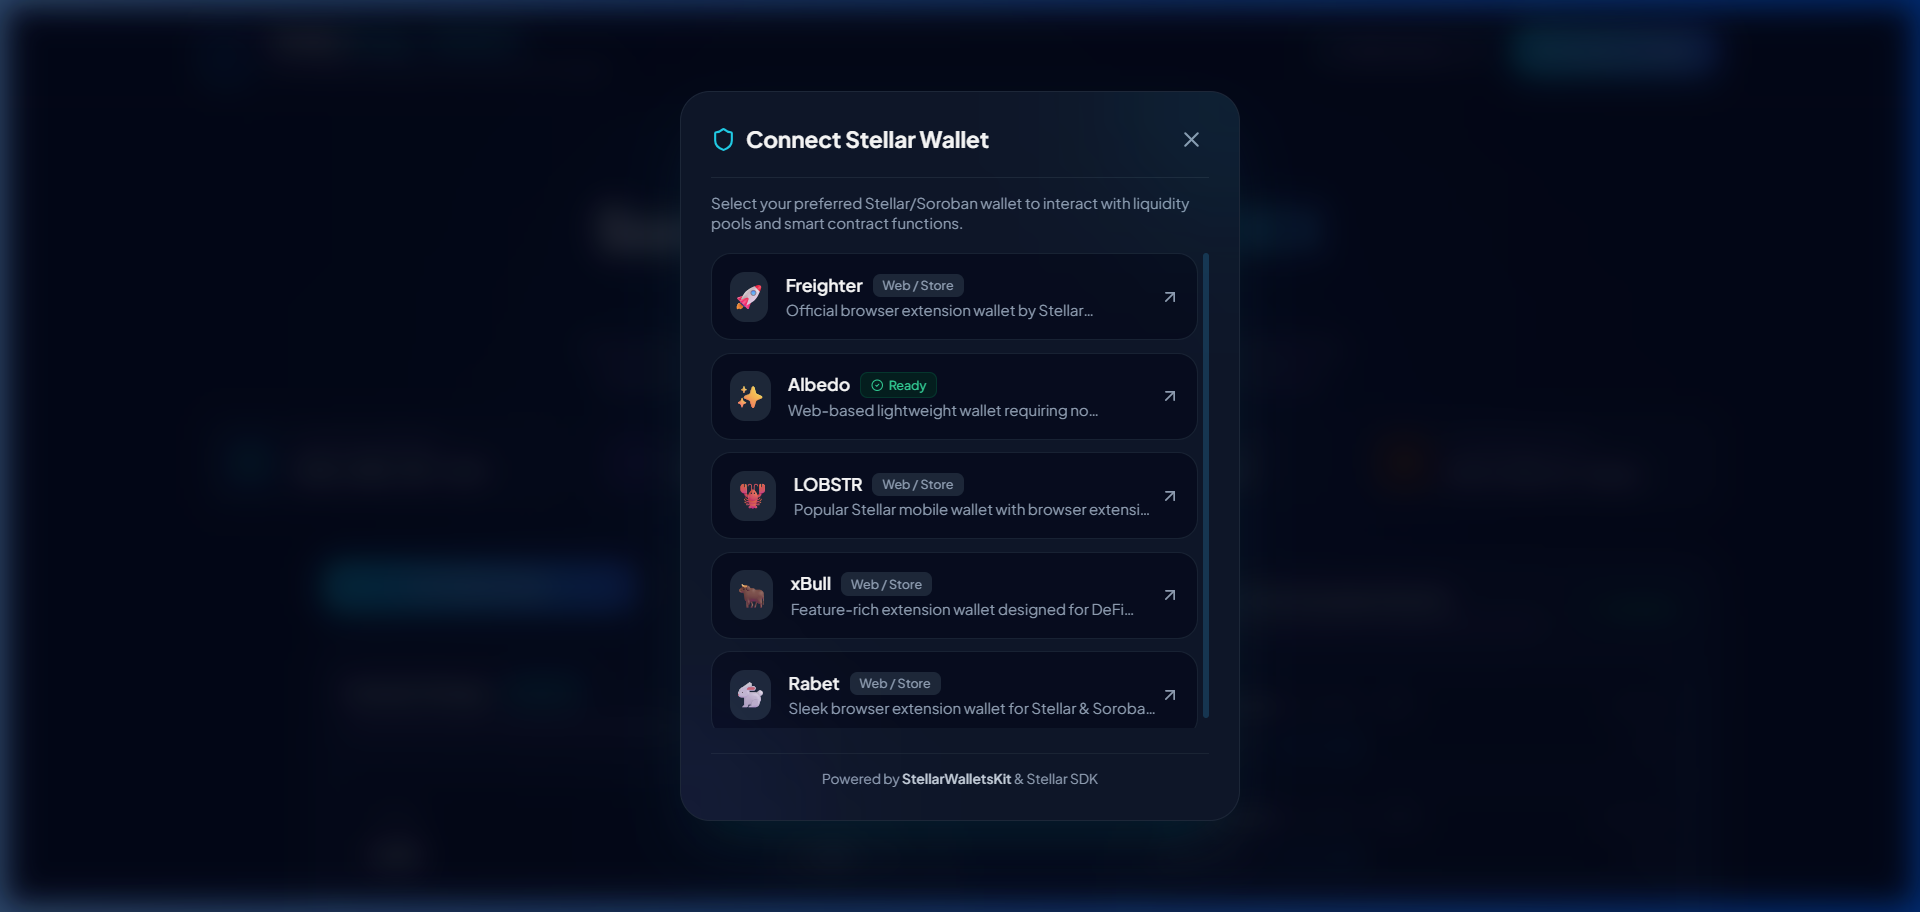
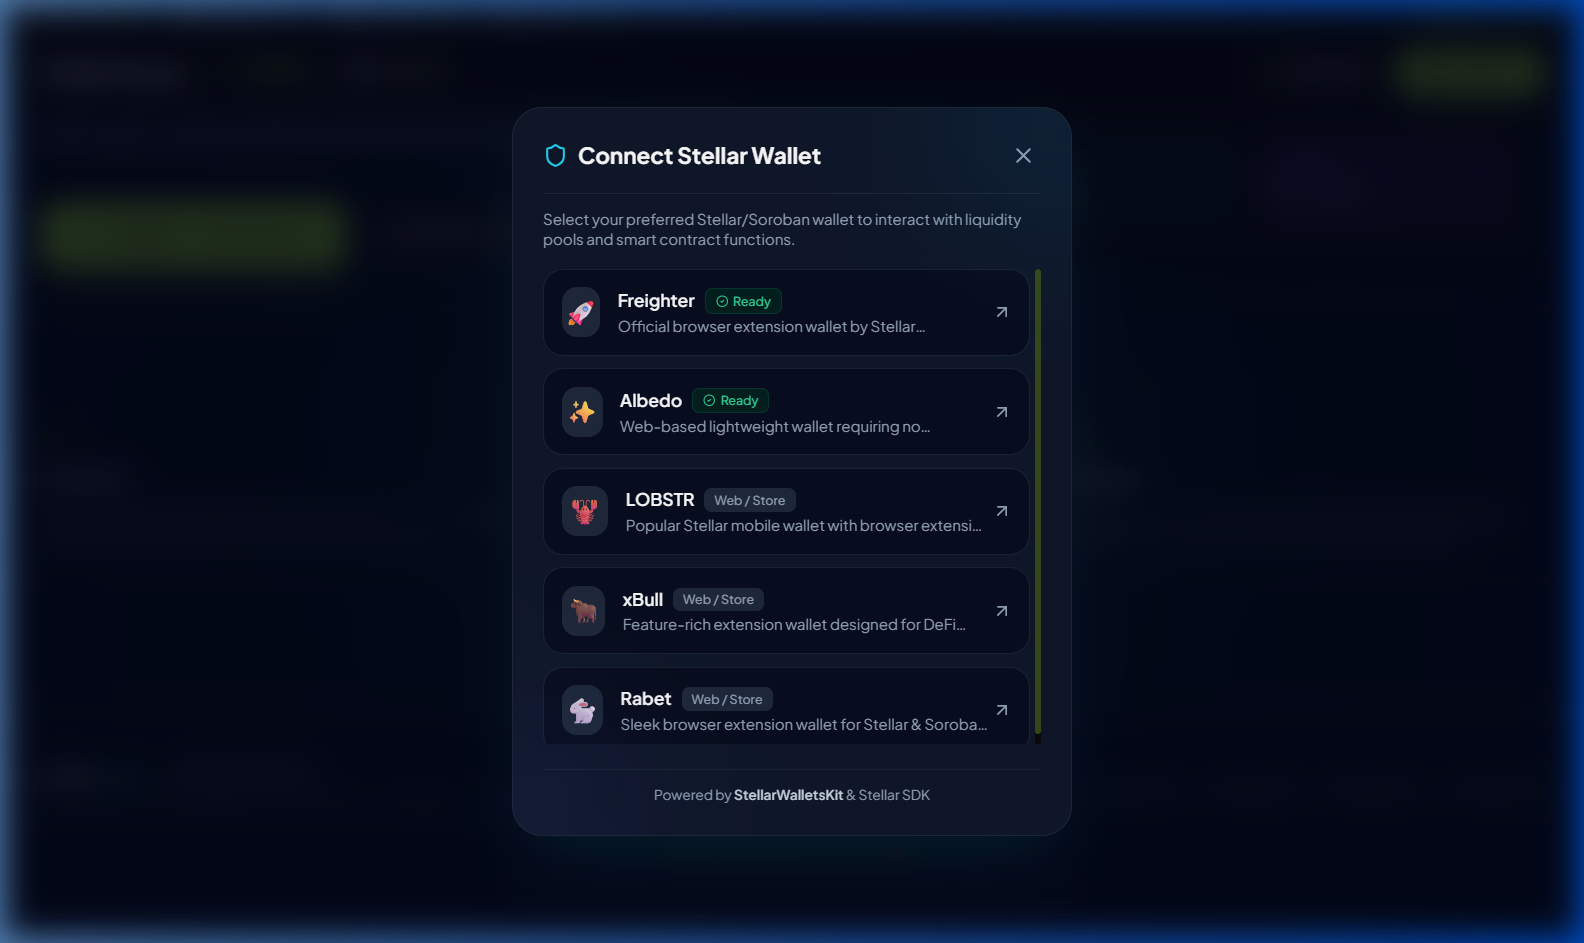
docs(screenshots): add 5 real captured screenshots - desktop, mobile, wallet modal, dashboard, transaction tracker

diff --git a/README.md b/README.md
@@ -68,11 +68,13 @@ graph TD
 
 ## 📸 Screenshots
 
-| Feature | Preview Screenshot |
+| Feature | Preview |
 |---|---|
-| **Desktop Swap & Escrow Terminal** | ![Desktop Preview](./docs/screenshots/app_preview.png) |
+| **Desktop Landing Page** | ![Desktop Landing](./docs/screenshots/app_preview.png) |
+| **Mobile Responsive (375px)** | ![Mobile View](./docs/screenshots/mobile_responsive.png) |
 | **Multi-Wallet Selection Modal** | ![Wallet Modal](./docs/screenshots/wallet_options.png) |
-| **User Feedback & Rating Widget** | ![Feedback Widget](./docs/screenshots/app_preview.png) |
+| **Connected Dashboard (Swap + Escrow)** | ![Dashboard](./docs/screenshots/connected_dashboard.png) |
+| **4-Step Transaction Tracker** | ![Transaction Tracker](./docs/screenshots/transaction_tracker.png) |
 
 ---
 
